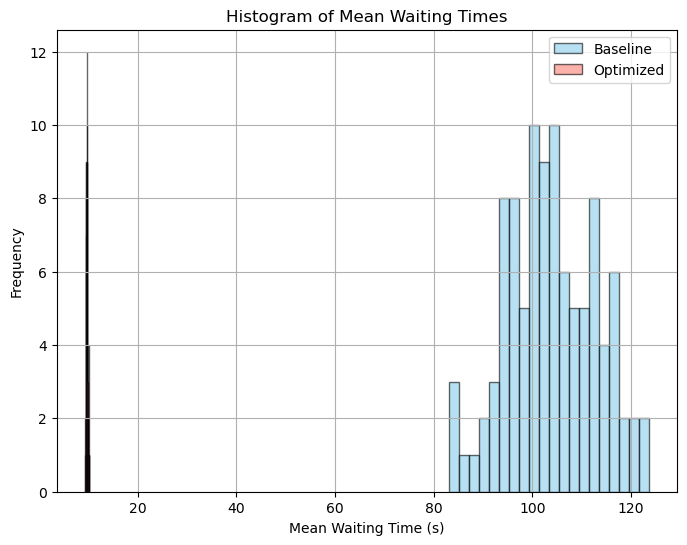
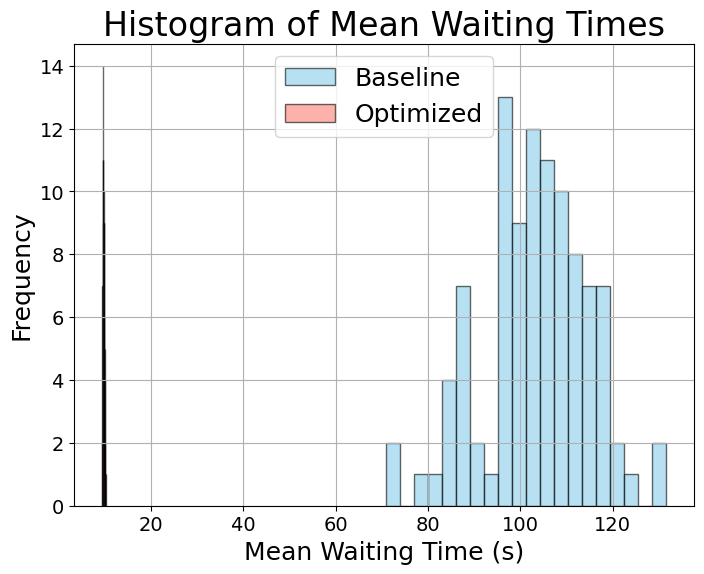
Small plot rendering improvements

diff --git a/stats.py b/stats.py
@@ -102,10 +102,12 @@ def plot_comparison_histogram(
     plt.figure(figsize=(8, 6))
     plt.hist(baseline_data, bins=bins, alpha=0.6, label='Baseline', color='skyblue', edgecolor='black')
     plt.hist(optimized_data, bins=bins, alpha=0.6, label='Optimized', color='salmon', edgecolor='black')
-    plt.title(title)
-    plt.xlabel(xlabel)
-    plt.ylabel('Frequency')
-    plt.legend()
+    plt.title(title, fontsize=24)
+    plt.xlabel(xlabel, fontsize=18)
+    plt.ylabel('Frequency', fontsize=18)
+    plt.xticks(fontsize=14)
+    plt.yticks(fontsize=14)
+    plt.legend(fontsize=18)
     plt.grid(True)
     # Save the plot with a unique filename based on the title
     filename = title.lower().replace(" ", "_") + ".png"
